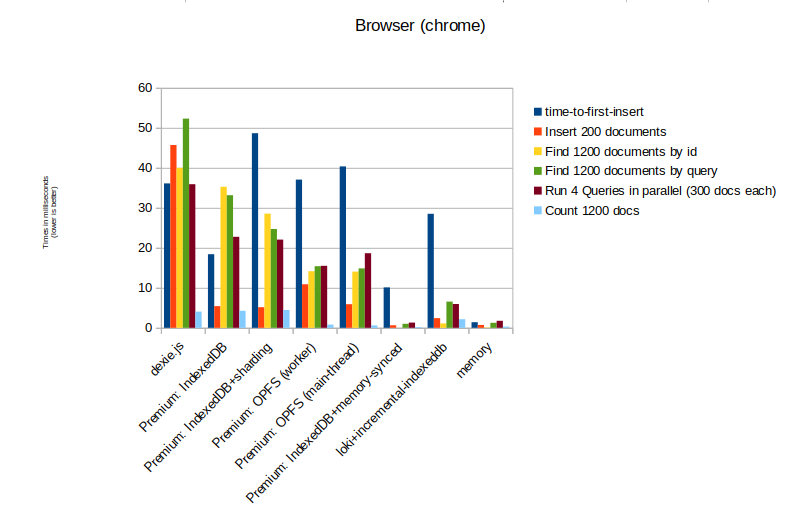
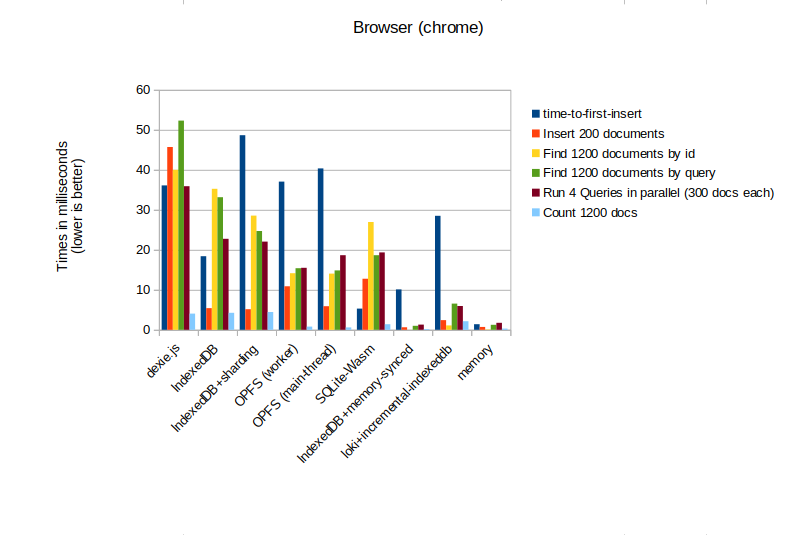
ADD sqlite storage

diff --git a/docs-src/docs/rx-storage-sqlite.md b/docs-src/docs/rx-storage-sqlite.md
@@ -5,7 +5,7 @@ slug: rx-storage-sqlite.html
 
 # SQLite RxStorage
 
-This [RxStorage](./rx-storage.md) is based on [SQLite](https://www.sqlite.org/index.html) and is made to work with **Node.js**, [Electron](./electron-database.md), [React Native](./react-native-database.md) and [Capacitor](./capacitor-database.md) or SQLite via wasm in the browser. It can be used with different so called `sqliteBasics` adapters to account for the differences in the various SQLite bundles and libraries that exist.
+This [RxStorage](./rx-storage.md) is based on [SQLite](https://www.sqlite.org/index.html) and is made to work with **Node.js**, [Electron](./electron-database.md), [React Native](./react-native-database.md) and [Capacitor](./capacitor-database.md) or SQLite via webassembly in the browser. It can be used with different so called `sqliteBasics` adapters to account for the differences in the various SQLite bundles and libraries that exist.
 
 ## Performance comparison with other storages
 
